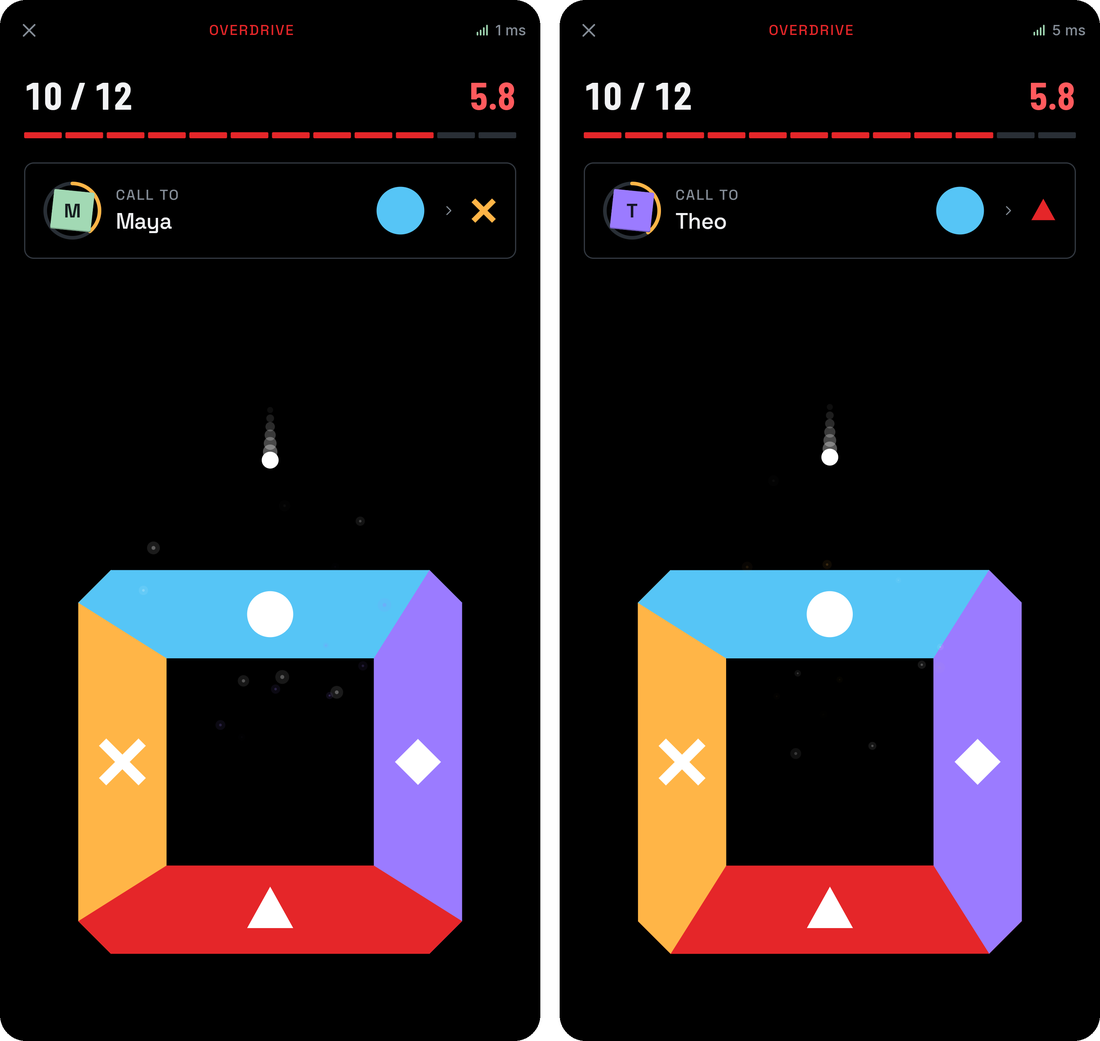
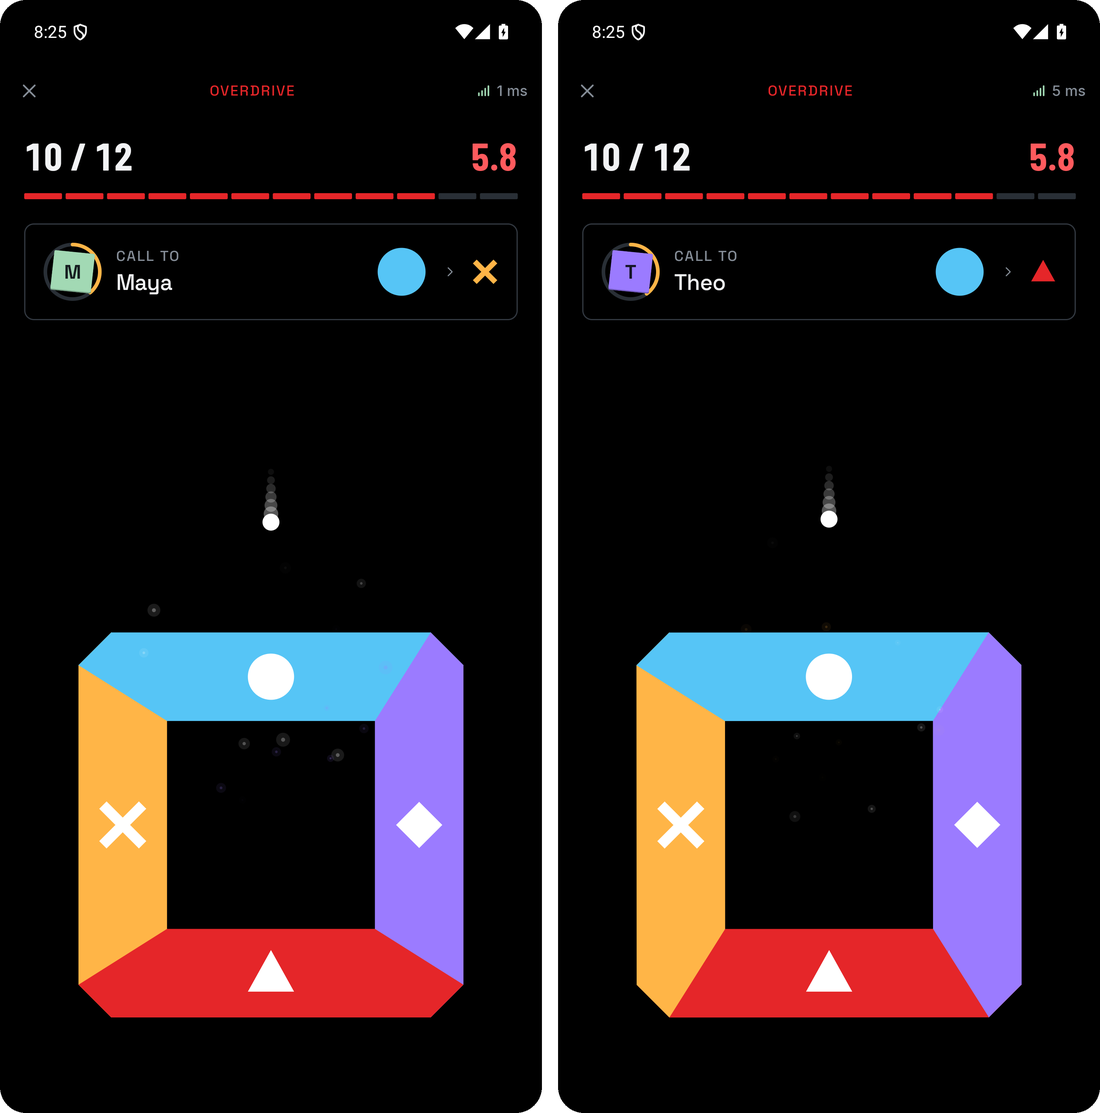
chore: record devnet test Seekers

diff --git a/README.md b/README.md
@@ -4,12 +4,6 @@ Formation turns the phones in a room into one shared game. A Seeker owner starts
 
 The idea is that a Seeker is a key to a shared experience rather than a solo device: its owner brings people together, and anyone who helps earns a share, with no wallet needed to join.
 
-<p align="center">
-  <img src="docs/images/mosaic.png" width="720" alt="Six phones laid out in three rows, each showing one piece of the Solana mark, together forming the whole logo">
-  <br>
-  <sub>Six phones, one mark: a finished game of Mosaic.</sub>
-</p>
-
 ## How a Formation works
 
 1. **A sponsor funds a contest.** SKR is locked in the Formation vault for Seeker Genesis Token holders.
